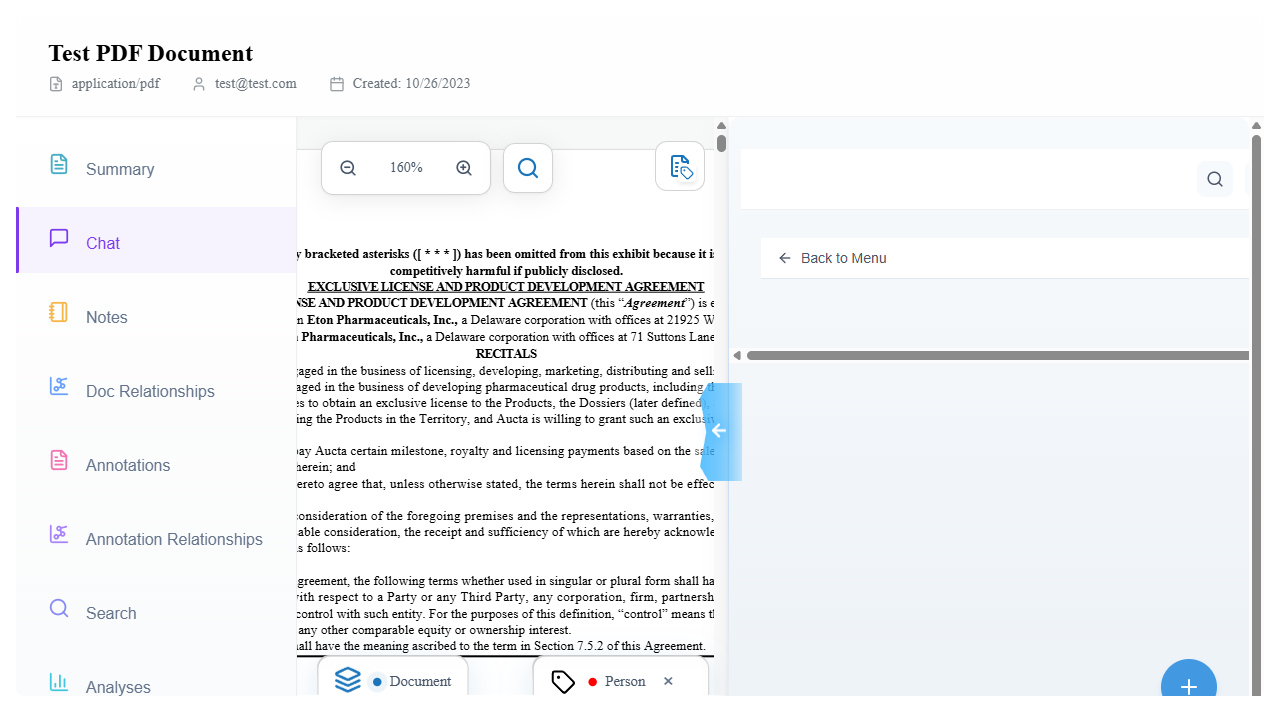
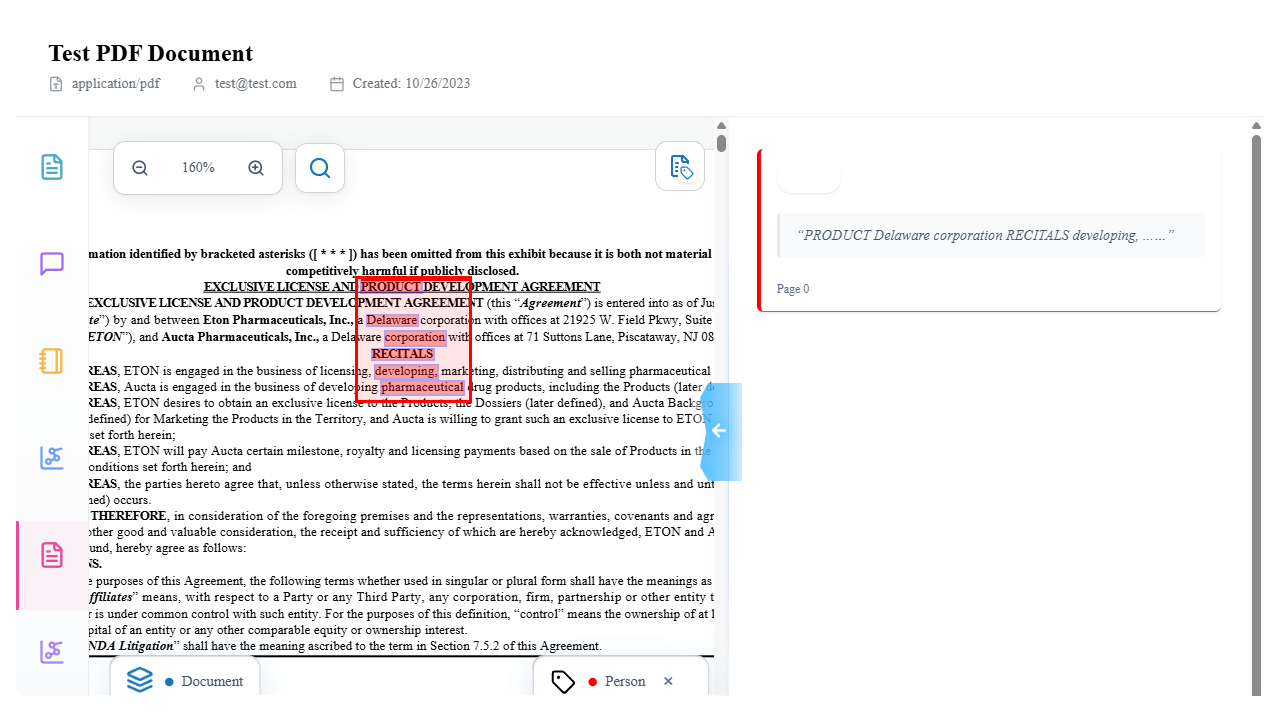
Reactivated full test suite.

diff --git a/frontend/tests/DocumentKnowledgeBase.ct.tsx b/frontend/tests/DocumentKnowledgeBase.ct.tsx
@@ -553,7 +553,7 @@ test("renders TXT document and shows plain-text container with content", async (
   ).toBeHidden({ timeout: LONG_TIMEOUT });
 });
 
-test.only("selects a label and creates an annotation by dragging", async ({
+test("selects a label and creates an annotation by dragging", async ({
   mount,
   page,
 }) => {
@@ -652,52 +652,33 @@ test.only("selects a label and creates an annotation by dragging", async ({
   // Give the UI a moment to stabilize after the drop
   await page.waitForTimeout(500);
 
-  // *** ADDED waitForEvent for console message ***
-  console.log("[TEST] Waiting for mutation mock execution signal...");
-  try {
-    await page.waitForEvent("console", {
-      predicate: (msg) => msg.text().includes("--- MUTATION MOCK EXECUTED ---"),
-      timeout: 15000, // Increased timeout slightly just in case
-    });
-    console.log("[TEST] Detected console message indicating mock execution.");
-  } catch (e) {
-    console.error("Timed out waiting for mutation mock execution signal!", e);
-    // Take a screenshot to help debug the issue
-    await page.screenshot({ path: "mutation-timeout-debug.png" });
-    throw e; // Re-throw the error to fail the test clearly
-  }
-
   // Wait for Apollo cache to update (keep this, might need adjustment)
   await page.waitForTimeout(1000); // Slightly longer wait after mock confirms execution
 
   // 6. Navigate to annotations panel to see results
   await page.getByRole("button", { name: "Annotations" }).click();
-  await expect(page.locator(".sidebar__annotations")).toBeVisible({
+  const annotationsPanel = page.locator(".sidebar__annotations"); // Define panel locator
+  await expect(annotationsPanel).toBeVisible({
     timeout: LONG_TIMEOUT,
   });
 
-  // Longer wait time for UI update (keep this, might need adjustment)
-  await page.waitForTimeout(2000);
-
-  // Log panel contents for debugging
+  // Log panel contents for debugging (optional but helpful)
   console.log("[TEST] Current annotations panel contents:");
-  const panelHTML = await page
-    .locator(".sidebar__annotations")
-    .evaluate((el) => el.innerHTML);
+  const panelHTML = await annotationsPanel.evaluate((el) => el.innerHTML);
   console.log(panelHTML);
 
-  // Check if mock was hit by checking console logs
-  const logs = await page.evaluate(() => {
-    return (window as any).mutationCalled || false;
-  });
-  console.log(`[TEST] Mutation called according to window flag: ${logs}`);
+  // Check if mock was hit by checking console logs (optional)
+  // const logs = await page.evaluate(() => {
+  //   return (window as any).mutationCalled || false;
+  // });
+  // console.log(`[TEST] Mutation called according to window flag: ${logs}`);
 
-  // 7. Assert Success - try multiple strategies
-
-  // Strategy 1: Look for annotation by ID
-  const annotationElement = page
+  // 7. Assert Success - Wait specifically for the element within the panel
+  const annotationElement = annotationsPanel // Ensure we look *within* the panel
     .locator('[data-annotation-id="new-annot-1"]')
     .first();
-  await expect(annotationElement).toBeVisible({ timeout: 10000 }); // Adjusted timeout
+
+  // Wait specifically for the annotation element to be visible
+  await expect(annotationElement).toBeVisible({ timeout: 15000 }); // Increased timeout for this specific assertion
   console.log("[TEST SUCCESS] Found annotation with data-annotation-id");
 });

diff --git a/frontend/src/components/annotator/sidebar/HighlightItem.tsx b/frontend/src/components/annotator/sidebar/HighlightItem.tsx
@@ -156,6 +156,7 @@ export const HighlightItem: React.FC<HighlightItemProps> = ({
       color={annotation?.annotationLabel?.color}
       selected={selected}
       className={`sidebar__annotation ${className || ""}`}
+      data-annotation-id={annotation.id}
       onClick={() => {
         annotationElementRefs.current[annotation.id]?.scrollIntoView({
           behavior: "smooth",